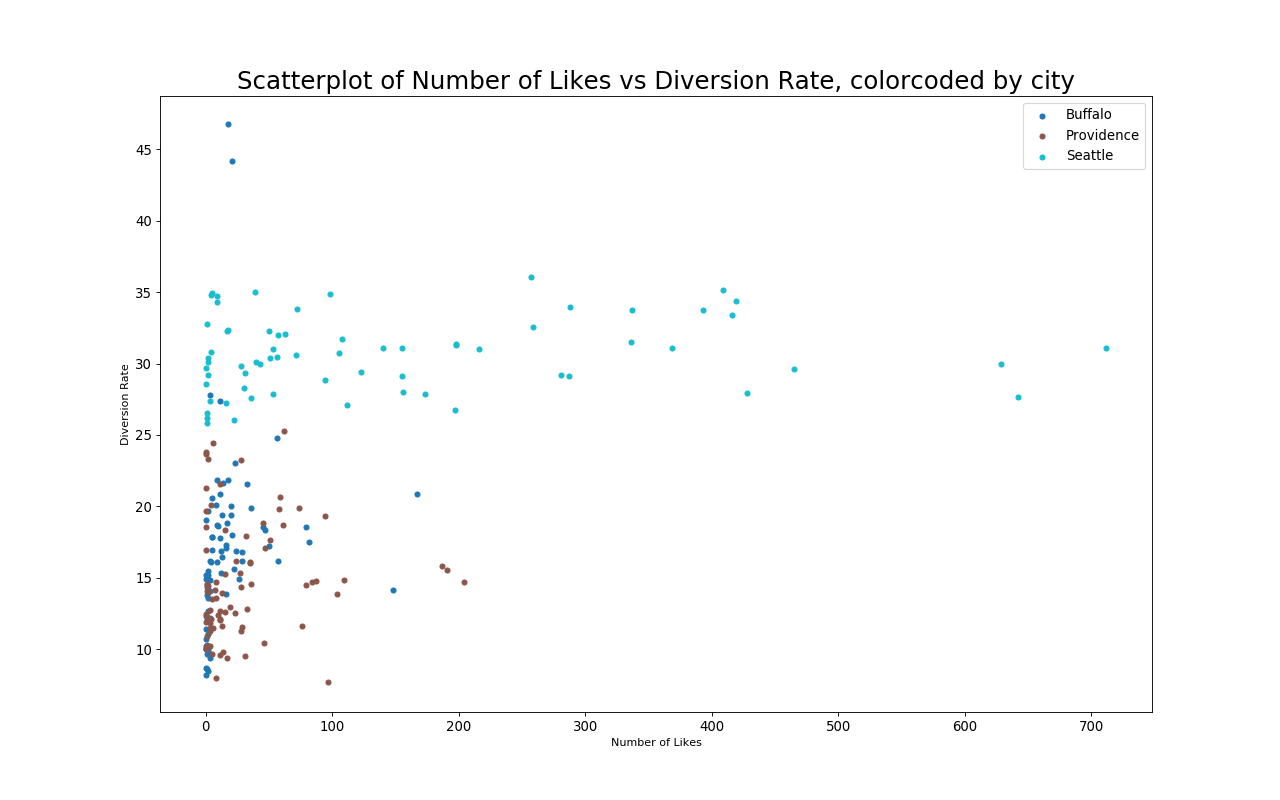
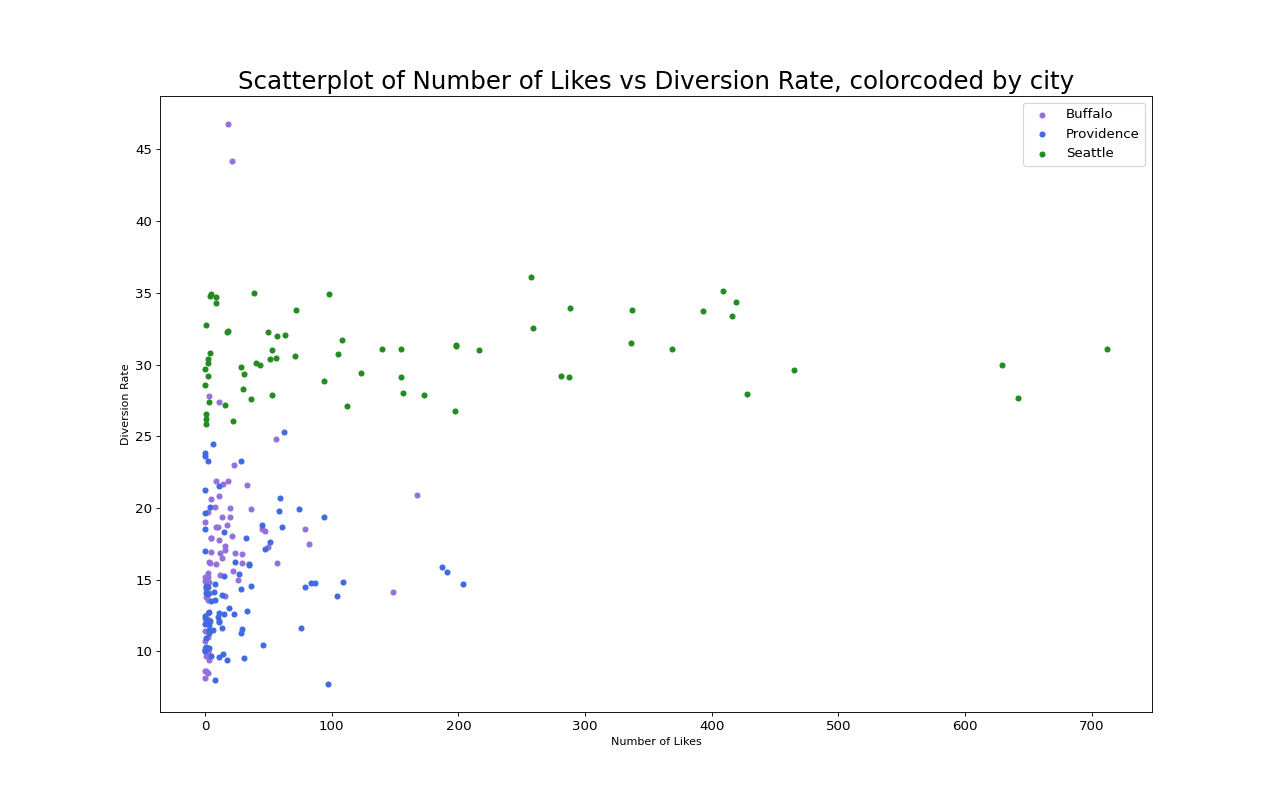
add separated city graphs

diff --git a/analysis.py b/analysis.py
@@ -2,6 +2,7 @@ import pandas as pd
 import matplotlib.pyplot as plt
 import numpy as np
 from mpl_toolkits import mplot3d
+import seaborn as sns
 #from scipy.stats import describe, spearmanr, pearsonr
 
 with open ("data/recycling_by_place.csv", 'rb') as f:
@@ -15,12 +16,9 @@ r_df.rename(columns={'city':'place'}, inplace=True)
 
 r_agg = r_df.groupby(['year', 'month'])['diversion_rate'].mean().reset_index()
 
-print(r_df)
-print(r_agg)
-
 cities = np.unique(r_df['place'])
-colors = [plt.cm.tab10(i/float(len(cities)-1)) for i in range(len(cities))]
-
+#colors = [plt.cm.tab10(i/float(len(cities)-1)) for i in range(len(cities))]
+colors = ['mediumpurple', 'royalblue', 'forestgreen']
 
 
 #r_agg.to_csv('data/recycling_aggregated.csv')
@@ -40,21 +38,25 @@ joined_place = pd.merge(r_df, t_df, on=['year', 'month', 'place'])
 
 plt.scatter(joined['num_tweets'], joined['diversion_rate'], alpha=0.7)
 m, b = np.polyfit(joined['num_tweets'], joined['diversion_rate'], 1)
+print ("Tweets aggregate -", "m:", m, "b:", b)
 plt.plot(joined['num_tweets'], m*joined['num_tweets'] + b)
 plt.xlabel('Number of Tweets')
 plt.ylabel('Recycling Diversion Rate')
+plt.title("Number of Tweets vs Diversion Rate")
 plt.savefig('figs/analysis/tweets_vs_diversion')
-plt.show()
+#plt.show()
 plt.clf()
 
 # get rid of outliers
 joined_adj = joined[joined['likes'].between(0, joined.quantile(.95).likes)]
 joined_adj = joined_adj[joined_adj['retweets'].between(0, joined.quantile(.95).retweets)]
+# joined_adj = joined_adj[joined_adj['diversion_rate'].between(joined.quantile(.05).diversion_rate, joined.quantile(.95).diversion_rate)]
 
 
 #get rid of outliers for unaggregated data
 joined_place_adj = joined_place[joined_place['likes'].between(0, joined_place.quantile(.95).likes)]
 joined_place_adj = joined_place_adj[joined_place_adj['retweets'].between(0, joined_place.quantile(.95).retweets)]
+# joined_place_adj = joined_place_adj[joined_place_adj['diversion_rate'].between(joined_place.quantile(.05).diversion_rate, joined_place.quantile(.95).diversion_rate)]
 
 
 #plot2
@@ -71,21 +73,37 @@ plt.xticks(fontsize=12); plt.yticks(fontsize=12)
 plt.title("Scatterplot of Number of Tweets vs Diversion Rate, colorcoded by city", fontsize=22)
 plt.legend(fontsize=12)
 plt.savefig('figs/analysis/tweets_vs_diversion_color')
-plt.show()
+#plt.show()
 plt.clf()
+
+# break cities into separate plots
+for i, city in enumerate(cities):
+    data = joined_place.loc[joined_place.place==city, :]
+    plt.scatter('num_tweets', 'diversion_rate',
+                data= data, c=colors[i], alpha=0.7)
+    m, b = np.polyfit(data['num_tweets'], data['diversion_rate'], 1)
+    print ("Tweets", city, "-", "m:", m, "b:", b)
+    plt.plot(data['num_tweets'], m*data['num_tweets'] + b, c=colors[i])
+
+    plt.gca().set(xlabel='Number of Tweets', ylabel='Diversion Rate')
+    plt.title("Number of Tweets vs Diversion Rate, " + city)
+    plt.savefig('figs/analysis/by_city/tweets_vs_diversion_' + str(i))
+    #plt.show()
+    plt.clf()
 
 
 #plot3
 
 plt.scatter(joined_adj['likes'], joined_adj['diversion_rate'], alpha=0.7)
 m, b = np.polyfit(joined_adj['likes'], joined_adj['diversion_rate'], 1)
+print ("Likes aggregate -", "m:", m, "b:", b)
 plt.plot(joined_adj['likes'], m*joined_adj['likes'] + b)
 plt.xlabel('Likes')
 plt.ylabel('Recycling Diversion Rate')
+plt.title("Number of Likes vs Diversion Rate")
 plt.savefig('figs/analysis/likes_vs_diversion')
-plt.show()
+#plt.show()
 plt.clf()
-
 
 #plot 4
 
@@ -101,18 +119,39 @@ plt.xticks(fontsize=12); plt.yticks(fontsize=12)
 plt.title("Scatterplot of Number of Likes vs Diversion Rate, colorcoded by city", fontsize=22)
 plt.legend(fontsize=12)
 plt.savefig('figs/analysis/likes_vs_diversion_color')
-plt.show()
+#plt.show()
 plt.clf()
+
+
+# break cities into separate plots
+for i, city in enumerate(cities):
+    data = joined_place.loc[joined_place.place==city, :]
+    # get rid of outliers by city
+    data = data[data['likes'].between(0, data.quantile(.90).likes)]
+    # data = data[data['diversion_rate'].between(0, data.quantile(.95).diversion_rate)]
+    plt.scatter('likes', 'diversion_rate',
+                data= data, c=colors[i], alpha=0.7)
+    m, b = np.polyfit(data['likes'], data['diversion_rate'], 1)
+    print ("Likes", city, "-", "m:", m, "b:", b)
+    plt.plot(data['likes'], m*data['likes'] + b, c=colors[i])
+
+    plt.gca().set(xlabel='Number of Likes', ylabel='Diversion Rate')
+    plt.title("Number of Likes vs Diversion Rate, " + city)
+    plt.savefig('figs/analysis/by_city/likes_vs_diversion_' + str(i))
+    #plt.show()
+    plt.clf()
 
 
 #plot 5
 plt.scatter(joined_adj['retweets'], joined_adj['diversion_rate'], alpha=0.7)
 m, b = np.polyfit(joined_adj['retweets'], joined_adj['diversion_rate'], 1)
+print ("Retweets aggregate -", "m:", m, "b:", b)
 plt.plot(joined_adj['retweets'], m*joined_adj['retweets'] + b)
 plt.xlabel('retweets')
 plt.ylabel('Recycling Diversion Rate')
+plt.title("Number of Retweets vs Diversion Rate")
 plt.savefig('figs/analysis/retweets_vs_diversion')
-plt.show()
+#plt.show()
 plt.clf()
 
 
@@ -129,11 +168,33 @@ plt.xticks(fontsize=12); plt.yticks(fontsize=12)
 plt.title("Scatterplot of Number of Retweets vs Diversion Rate, colorcoded by city", fontsize=22)
 plt.legend(fontsize=12)
 plt.savefig('figs/analysis/retweets_vs_diversion_color')
-plt.show()
+#plt.show()
 plt.clf()
 
+# break cities into separate plots
+for i, city in enumerate(cities):
+    data = joined_place.loc[joined_place.place==city, :]
+    # get rid of outliers by city
+    data = data[data['retweets'].between(0, data.quantile(.90).retweets)]  # not sure if this is the right quantile to cut at
+    # data = data[data['diversion_rate'].between(0, data.quantile(.95).diversion_rate)]
+    plt.scatter('retweets', 'diversion_rate',
+                data= data, c=colors[i], alpha=0.7)
+    m, b = np.polyfit(data['retweets'], data['diversion_rate'], 1)
+    print ("Retweets", city, "-", "m:", m, "b:", b)
+    plt.plot(data['retweets'], m*data['retweets'] + b, c=colors[i])
 
-#plot7
+    plt.gca().set(xlabel='Number of Retweets', ylabel='Diversion Rate')
+    plt.title("Number of Retweets vs Diversion Rate, " + city)
+    plt.savefig('figs/analysis/by_city/retweets_vs_diversion_' + str(i))
+    #plt.show()
+    plt.clf()
+
+
+# #plot7
+
+joined_adj = joined[joined['likes'].between(0, joined.quantile(.95).likes)]
+joined_adj = joined_adj[joined_adj['retweets'].between(0, joined.quantile(.80).retweets)]
+# adjust outliers for better 3d graph
 
 ax = plt.axes(projection='3d')
 ax.scatter3D(joined_adj['retweets'], joined_adj['likes'], joined_adj['diversion_rate'])
@@ -141,4 +202,4 @@ ax.set_xlabel('retweets')
 ax.set_ylabel('likes')
 ax.set_zlabel('Recycling Diviersion Rate')
 plt.savefig('figs/analysis/retweets+likes_vs_diversion')
-plt.show()
+#plt.show()
